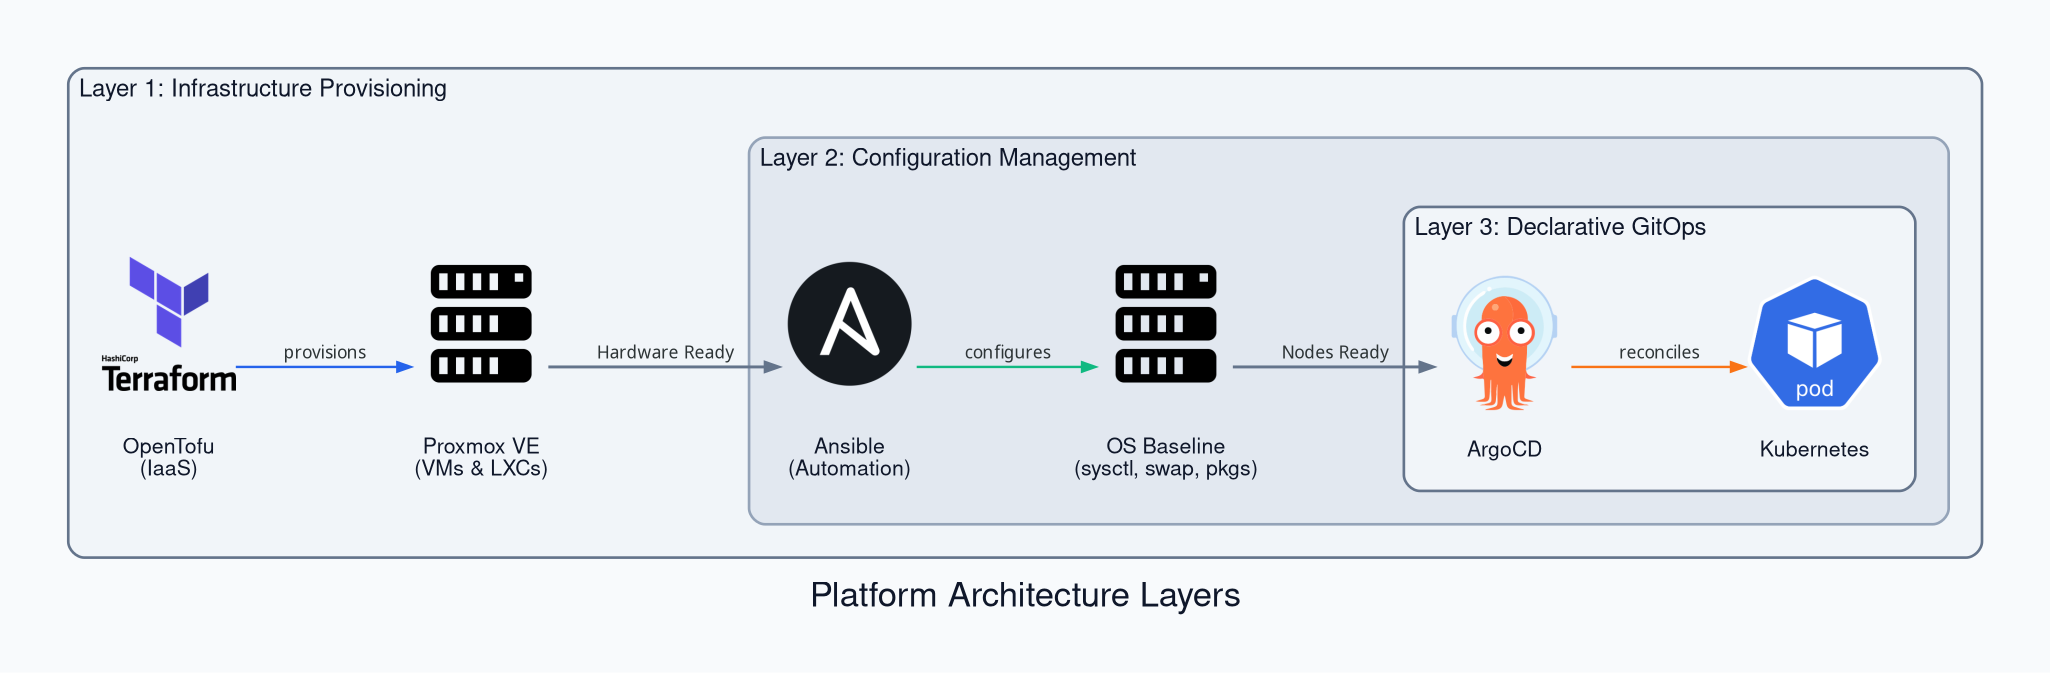
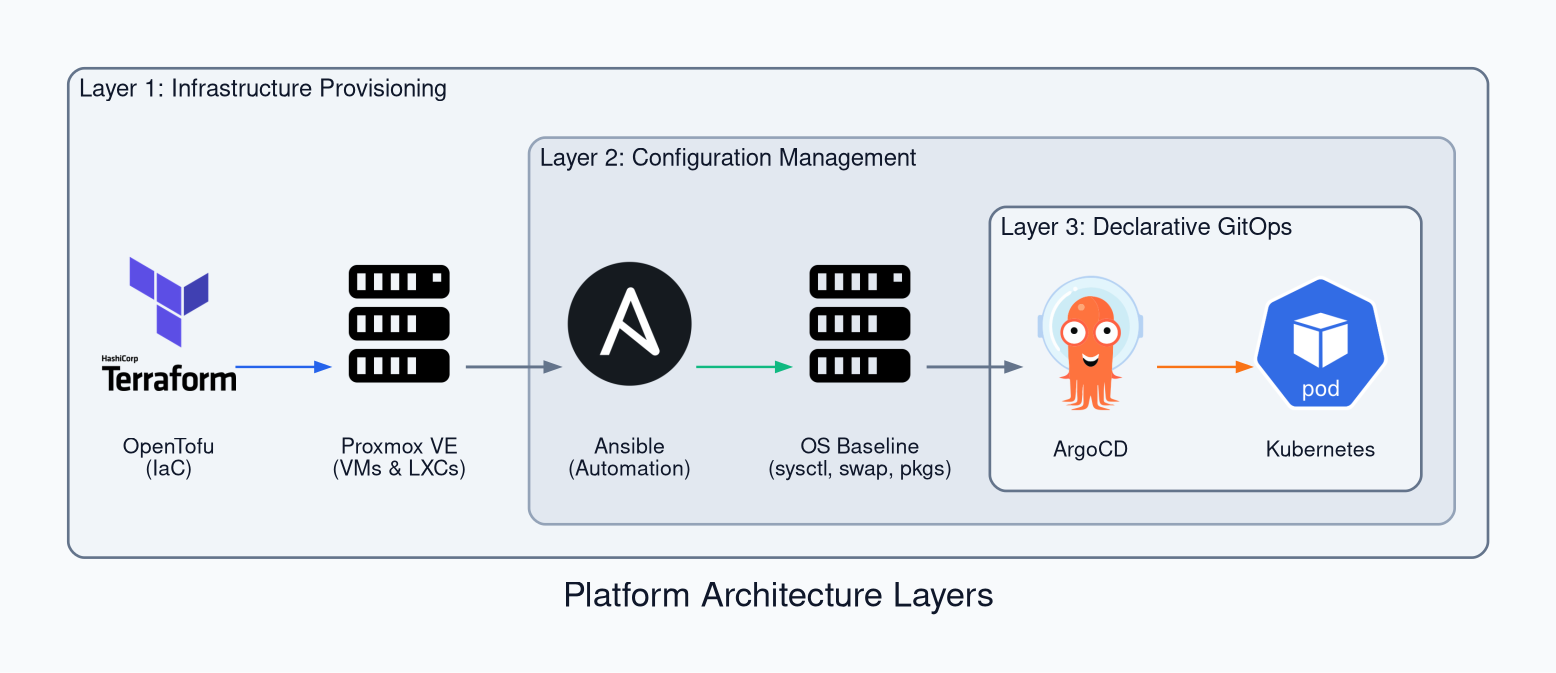
docs(platform): refine architecture rationale, journey, and diagrams (#60)

diff --git a/scripts/generate_diagram.py b/scripts/generate_diagram.py
@@ -87,22 +87,22 @@ with Diagram(
     outformat="png",
 ):
     with Cluster("Layer 1: Infrastructure Provisioning", graph_attr=cluster_outer_attr):
-        tofu = Terraform("OpenTofu\n(IaaS)")
+        tofu = Terraform("OpenTofu\n(IaC)")
         pve = Server("Proxmox VE\n(VMs & LXCs)")
-        tofu >> Edge(color="#2563eb", penwidth="1.8", label="provisions") >> pve
+        tofu >> Edge(color="#2563eb", penwidth="1.8") >> pve
 
         with Cluster("Layer 2: Configuration Management", graph_attr=cluster_inner_attr):
             ansible = Ansible("Ansible\n(Automation)")
             os_tune = Server("OS Baseline\n(sysctl, swap, pkgs)")
-            ansible >> Edge(color="#10b981", penwidth="1.8", label="configures") >> os_tune
+            ansible >> Edge(color="#10b981", penwidth="1.8") >> os_tune
 
             with Cluster("Layer 3: Declarative GitOps", graph_attr=cluster_outer_attr):
                 argo = Argocd("ArgoCD")
                 k8s = Pod("Kubernetes")
-                argo >> Edge(color="#f97316", penwidth="1.8", label="reconciles") >> k8s
+                argo >> Edge(color="#f97316", penwidth="1.8") >> k8s
 
-        pve >> Edge(color="#64748b", penwidth="2.2", style="bold", label="Hardware Ready") >> ansible
-        os_tune >> Edge(color="#64748b", penwidth="2.2", style="bold", label="Nodes Ready") >> argo
+        pve >> Edge(color="#64748b", penwidth="2.2", style="bold") >> ansible
+        os_tune >> Edge(color="#64748b", penwidth="2.2", style="bold") >> argo
 
 # ==============================================================================
 # Diagram 2: Physical Topology & Quorum
@@ -111,7 +111,7 @@ with Diagram(
 with Diagram(
     "Physical Topology",
     show=False,
-    direction="LR",
+    direction="TB",
     curvestyle="ortho",
     graph_attr=base_graph_attr,
     node_attr=common_node_attr,
@@ -127,13 +127,7 @@ with Diagram(
         with Cluster("rpi-01", graph_attr=cluster_inner_attr):
             qdevice = Server("Corosync QDevice")
             ntp = Server("Chrony NTP (UTC)")
-
-        # Corosync Quorum & Witness Links
-        pve01 - Edge(color="#2563eb", penwidth="2.5", label="Corosync") - pve02
-        qdevice >> Edge(color="#10b981", style="dashed", penwidth="2.0") >> pve01
-        qdevice >> Edge(color="#10b981", style="dashed", penwidth="2.0") >> pve02
-        ntp >> Edge(color="#f97316", style="dashed", penwidth="2.0") >> pve01
-        ntp >> Edge(color="#f97316", style="dashed", penwidth="2.0") >> pve02
+            jumpbox = Server("SSH Jumpbox")
 
 # ==============================================================================
 # Diagram 3: Kubernetes Homelab Architecture

diff --git a/docs/journey.md b/docs/journey.md
@@ -12,22 +12,12 @@ A retrospective narrative on environmental constraints, operational toil, and ev
   │     Initial manual discovery and hardware learning     │
   └──────────────────────────┬─────────────────────────────┘
                              │
-                             ▼  Friction: Repeating the creation wizard 10 times for 10 VMs
+                             ▼  Friction: Manual clicking, OS toil, and drift
   ┌────────────────────────────────────────────────────────┐
-  │                 Layer 1: OpenTofu                      │
-  │     Declarative virtual hardware and container state   │
-  └──────────────────────────┬─────────────────────────────┘
-                             │
-                             ▼  Friction: SSHing into 5+ nodes to patch & tune OS
-  ┌────────────────────────────────────────────────────────┐
-  │                 Layer 2: Ansible                       │
-  │     Idempotent OS baselines and standalone utilities   │
-  └──────────────────────────┬─────────────────────────────┘
-                             │
-                             ▼  Friction: Manual manifest delivery & drift
-  ┌────────────────────────────────────────────────────────┐
-  │                 Layer 3: ArgoCD                        │
-  │     Declarative in-cluster GitOps workload delivery    │
+  │              Three-Tier Platform Lifecycle             │
+  │  - Layer 1 (OpenTofu): Declarative infrastructure      │
+  │  - Layer 2 (Ansible):  Host OS baselines and tuning    │
+  │  - Layer 3 (ArgoCD):   GitOps workload delivery        │
   └──────────────────────────┬─────────────────────────────┘
                              │
                              ▼  Reflection: Locking in separation of concerns
@@ -36,10 +26,11 @@ A retrospective narrative on environmental constraints, operational toil, and ev
   │     Formalized architectural boundaries (ADR 001-005)  │
   └──────────────────────────┬─────────────────────────────┘
                              │
-                             ▼  Mastery: Zero-touch disaster recovery
+                             ▼  Maturity: Zero-touch recovery and shift-left safety
   ┌────────────────────────────────────────────────────────┐
-  │              Act 6: The Phoenix Rebuild                │
-  │     Zero-touch orchestration via site.yml (ADR 006)    │
+  │           Platform Resilience & Staging                │
+  │  - Phoenix Rebuild: Zero-touch recovery (ADR 006)      │
+  │  - Ephemeral Sandboxes: Shift-left staging (ADR 007)   │
   └────────────────────────────────────────────────────────┘
 ```
 
@@ -59,7 +50,7 @@ However, the graphical interface soon revealed its fundamental operational ceili
 
 ---
 
-## Act 2: The First Wall of Toil (Why OpenTofu?)
+## Act 2: The First Wall of Toil
 
 !!! quote "The Realization"
     Clicking through the VM creation wizard once was fine to learn how KVM parameters work.
@@ -80,9 +71,9 @@ tofu apply
 
 ---
 
-## Act 3: The Second Wall of Toil (Why Ansible?)
+## Act 3: The Second Wall of Toil
 
-Provisioning virtual hardware solved the creation problem, but exposed the host configuration problem.
+Provisioning virtual machines solved the creation problem, but exposed the host configuration problem.
 
 Once the virtual machines booted, they were bare operating system shells. Preparing them for Kubernetes required:
 
@@ -99,9 +90,9 @@ Through centralized inventories and idempotent playbooks (`ansible/playbooks/set
 
 ---
 
-## Act 4: The Ingress Mystery (Standalone Gateway and DNS)
+## Act 4: The Ingress Mystery
 
-With the cluster operational, accessing web services (ArgoCD, Hubble UI, and monitoring dashboards) required memorizing internal IP addresses and high NodePort numbers (`:30443`, `:31235`).
+With the cluster operational, routing traffic to internal dashboards and managing local DNS became the next operational challenge. Accessing web services (ArgoCD, Hubble UI, and monitoring dashboards) required memorizing internal IP addresses and high NodePort numbers (`:30443`, `:31235`).
 
 The typical Kubernetes solution is an in-cluster Ingress Controller coupled with MetalLB. However, the homelab presented distinct challenges:
 
@@ -119,11 +110,11 @@ Building the gateway uncovered two real-world operational challenges:
 
 ---
 
-## Act 5: Locking Down Boundaries (The ADRs)
+## Act 5: Locking Down Boundaries
 
 After eliminating the manual toil and stabilizing the network, the final step was architectural reflection: locking in the boundaries so tools would not bleed into each other over time.
 
-This resulted in formal Architectural Decision Records:
+This resulted in formal Architectural Decision Records (ADRs):
 
 * **[ADR 001](adr/001-two-node-cluster-topology.md):** Asymmetric two-node cluster topology with external Raspberry Pi tiebreaker.
 * **[ADR 002](adr/002-local-storage-with-retain-policy.md):** Local disk mapping with strict retention policy.
@@ -144,3 +135,17 @@ This prompted [ADR 006](adr/006-orchestrated-cluster-bootstrap-via-ansible-scrip
     * `utilities.yml`: Configures utility containers.
     * `site.yml`: Sequences both cluster bootstrap and utility configuration for complete bare-metal reconstruction.
 * **Golden Image Baking:** Using `virt-customize` on the cloud-init template to pre-bake `qemu-guest-agent` and truncate `/etc/machine-id`, eliminating API timeouts and duplicate DHCP leases.
+
+---
+
+## Act 7: Shifting Left
+
+With the Phoenix Rebuild automated, a final engineering challenge emerged: how to safely test new OpenTofu definitions, cloud-init changes, or Ansible plays without polluting active Kubernetes nodes.
+
+Running experimental changes against cluster nodes (`k8s-cp-01`, `k8s-app-01`) risked configuration drift, package pollution, and service downtime. Conversely, testing on local developer machines lacked hypervisor fidelity.
+
+This justified introducing [ADR 007](adr/007-ephemeral-sandbox-staging-environment.md), shifting infrastructure testing left through disposable sandbox staging environments:
+
+* **Isolated ID & IP Allocations:** Dedicated 900-series IDs (`10.0.0.9x`) for VMs and 800-series IDs (`10.0.0.8x`) for containers, guaranteeing no collisions with active cluster VMs or utility containers.
+* **Zero-Footprint Default:** Setting `default = {}` ensures that standard `tofu apply` executions consume zero CPU, RAM, or storage when sandboxes are not in use.
+* **Targeted Validation:** Operators validate provisioning and run playbooks safely using Ansible limits (`--limit sandbox`), confirming stability before applying changes to the cluster.

diff --git a/README.md b/README.md
@@ -12,13 +12,12 @@ For full guides and runbooks, visit the [documentation site](https://victoriache
 
 Built to expand beyond single-machine experiments and disposable cloud setups, evolving the foundations of [observability-hub](https://github.com/victoriacheng15/observability-hub) across distributed physical infrastructure:
 
-* **From Single-Node to Distributed Topology:** Scales the single-machine GitOps and Cilium foundations into a multi-node bare-metal environment, confronting real node failure domains and quorum management.
-* **Three-Tier Platform Lifecycle:** Strict boundary separation across infrastructure provisioning (OpenTofu), host OS baselines (Ansible), and declarative workload delivery (ArgoCD).
-* **Control Plane Isolation:** Centralized control plane with strict `NoSchedule` taints to preserve API stability.
-* **Kernel Datapath & In-Cluster Routing:** Cilium eBPF in isolated VXLAN overlay mode, avoiding host routing table modifications or physical LAN disruption.
-* **Decoupled Ingress Gateway:** Standalone Nginx reverse proxy and Pi-hole DNS sinkhole operating outside Kubernetes to ensure uninterrupted service routing.
-* **Zero-Drift GitOps:** ArgoCD as the authoritative reconciler for all cluster services, observability daemons, and security tools.
-* **Resilience Under Constraints:** Asymmetric physical hardware (Mini PC + Laptop) with external Raspberry Pi Corosync quorum (`corosync-qnetd`) to prevent split-brain states.
+* **Distributed Topology:** Scales across multi-node hardware using an external Raspberry Pi tiebreaker to manage quorum and node failure domains.
+* **Three-Tier Platform Lifecycle:** Enforces strict boundaries across infrastructure (OpenTofu), host OS baselines (Ansible), and workloads (ArgoCD).
+* **Control Plane Isolation:** Isolates the control plane with `NoSchedule` taints to protect API stability.
+* **Host Network Management:** Manages machine IP addressing via DHCP and static reservations across physical hosts and VMs.
+* **Kernel Datapath & Routing:** Routes pod traffic via Cilium eBPF and VXLAN overlay without disrupting the home LAN.
+* **Zero-Drift GitOps:** Reconciles all cluster services and platform tools automatically using ArgoCD.
 
 ---
 
@@ -36,7 +35,7 @@ Built to expand beyond single-machine experiments and disposable cloud setups, e
 | :---: | :--- | :--- | :--- | :--- | :--- |
 | <img src="docs/assets/logos/proxmox.svg" alt="Proxmox" width="32"> | Mini PC | `pve-01` | x86_64 | 32 GB | Proxmox host (`k8s-cp-01`, `k8s-telemetry-01`) |
 | <img src="docs/assets/logos/proxmox.svg" alt="Proxmox" width="32"> | Laptop | `pve-02` | x86_64 | 8 GB | Proxmox host (`k8s-app-01` worker) |
-| <img src="docs/assets/logos/raspberrypi.svg" alt="Raspberry Pi" width="32"> | Raspberry Pi 3B | `rpi-01` | ARM64 | 1 GB | Corosync QDevice quorum tiebreaker (`corosync-qnetd`) |
+| <img src="docs/assets/logos/raspberrypi.svg" alt="Raspberry Pi" width="32"> | Raspberry Pi 3B | `rpi-01` | ARM64 | 1 GB | Corosync QDevice, Chrony NTP, and SSH Jumpbox |
 
 ---
 

diff --git a/docs/README.md b/docs/README.md
@@ -10,13 +10,12 @@ For the narrative story behind the architectural choices and operational lessons
 
 Built to expand beyond single-machine experiments and disposable cloud setups, evolving the foundations of [observability-hub](https://github.com/victoriacheng15/observability-hub) across distributed physical infrastructure:
 
-* **From Single-Node to Distributed Topology:** Scales the single-machine GitOps and Cilium foundations into a multi-node bare-metal environment, confronting real node failure domains and quorum management.
-* **Three-Tier Platform Lifecycle:** Strict boundary separation across infrastructure provisioning (OpenTofu), host OS baselines (Ansible), and declarative workload delivery (ArgoCD).
-* **Control Plane Isolation:** Centralized control plane with strict `NoSchedule` taints to preserve API stability.
-* **Kernel Datapath & In-Cluster Routing:** Cilium eBPF in isolated VXLAN overlay mode, avoiding host routing table modifications or physical LAN disruption.
-* **Decoupled Ingress Gateway:** Standalone Nginx reverse proxy and Pi-hole DNS sinkhole operating outside Kubernetes to ensure uninterrupted service routing.
-* **Zero-Drift GitOps:** ArgoCD as the authoritative reconciler for all cluster services, observability daemons, and security tools.
-* **Resilience Under Constraints:** Asymmetric physical hardware (Mini PC + Laptop) with external Raspberry Pi Corosync quorum (`corosync-qnetd`) to prevent split-brain states.
+* **Distributed Topology:** Scales across multi-node hardware using an external Raspberry Pi tiebreaker to manage quorum and node failure domains.
+* **Three-Tier Platform Lifecycle:** Enforces strict boundaries across infrastructure (OpenTofu), host OS baselines (Ansible), and workloads (ArgoCD).
+* **Control Plane Isolation:** Isolates the control plane with `NoSchedule` taints to protect API stability.
+* **Host Network Management:** Manages machine IP addressing via DHCP and static reservations across physical hosts and VMs.
+* **Kernel Datapath & Routing:** Routes pod traffic via Cilium eBPF and VXLAN overlay without disrupting the home LAN.
+* **Zero-Drift GitOps:** Reconciles all cluster services and platform tools automatically using ArgoCD.
 
 ---
 
@@ -34,7 +33,7 @@ Built to expand beyond single-machine experiments and disposable cloud setups, e
 | :---: | :--- | :--- | :--- | :--- | :--- |
 | <img src="./assets/logos/proxmox.svg" alt="Proxmox" width="32"> | Mini PC | `pve-01` | x86_64 | 32 GB | Proxmox host (`k8s-cp-01`, `k8s-telemetry-01`) |
 | <img src="./assets/logos/proxmox.svg" alt="Proxmox" width="32"> | Laptop | `pve-02` | x86_64 | 8 GB | Proxmox host (`k8s-app-01` worker) |
-| <img src="./assets/logos/raspberrypi.svg" alt="Raspberry Pi" width="32"> | Raspberry Pi 3B | `rpi-01` | ARM64 | 1 GB | Corosync QDevice quorum tiebreaker (`corosync-qnetd`) |
+| <img src="./assets/logos/raspberrypi.svg" alt="Raspberry Pi" width="32"> | Raspberry Pi 3B | `rpi-01` | ARM64 | 1 GB | Corosync QDevice, Chrony NTP, and SSH Jumpbox |
 
 ---
 

diff --git a/docs/engineering-log.md b/docs/engineering-log.md
@@ -12,7 +12,7 @@ Executed automated infrastructure and cluster provisioning drills across OpenTof
 
 ### Target Scope
 
-* **Virtual Machines:** `k8s-cp-01` (VM 100), `k8s-telemetry-01` (VM 101), `k8s-app-01` (VM 200)
+* **Virtual Machines:** `k8s-cp-01`, `k8s-telemetry-01`, `k8s-app-01`
 * **Containers (LXC):** `ansible`, `tailscale`, `nginx`, `pihole`
 * **Provisioning & Automation:** `infra/`, `ansible/`, `bootstrap/`
 
@@ -195,7 +195,7 @@ Bootstrapped the Layer 3 Kubernetes platform across three virtual machines (`k8s
 
 ### Target Scope
 
-* **Virtual Machines:** `k8s-cp-01` (VM 100), `k8s-telemetry-01` (VM 101), `k8s-app-01` (VM 200)
+* **Virtual Machines:** `k8s-cp-01`, `k8s-telemetry-01`, `k8s-app-01`
 * **Automation & Scripts:** `bootstrap/00-preflight.sh`, `bootstrap/01-k3s-server.sh`, `bootstrap/02-k3s-agent.sh`, `bootstrap/03-cni-cilium.sh`, `Makefile`
 * **Documentation:** `docs/provisioning.md`, `docs/adr/003-cilium-ebpf-in-vxlan-overlay-mode.md`, `bootstrap/README.md`
 
@@ -258,7 +258,7 @@ Established strict separation of concerns across the platform hierarchy (OpenTof
 
 ### Target Scope
 
-* **Virtual Machines:** `k8s-cp-01` (VM 100), `k8s-telemetry-01` (VM 101), `k8s-app-01` (VM 200)
+* **Virtual Machines:** `k8s-cp-01`, `k8s-telemetry-01`, `k8s-app-01`
 * **Containers (LXC):** `pihole`, `tailscale`, `nginx`, `ansible`
 * **Automation & Docs:** `infra/`, `ansible/`, `scripts/generate_diagram.py`, `docs/assets/`
 
@@ -295,7 +295,7 @@ Initialized the physical dual-node Proxmox VE cluster (`k8s-homelab`) with an ex
 ### Target Scope
 
 * **Physical Hosts:** `pve-01` (Mini PC), `pve-02` (Laptop), `rpi-01` (Raspberry Pi 3B)
-* **Virtual Machines:** `k8s-cp-01` (VM 100), `k8s-telemetry-01` (VM 101), `k8s-app-01` (VM 200), Ubuntu 24.04 Template (VM 9000)
+* **Virtual Machines:** `k8s-cp-01`, `k8s-telemetry-01`, `k8s-app-01`, Ubuntu 24.04 Template
 * **Containers (LXC):** `pihole` on `pve-02`, `tailscale` on `pve-01`, `nginx` on `pve-01`, `ansible` on `pve-01`
 
 ### Key Changes
@@ -304,7 +304,7 @@ Initialized the physical dual-node Proxmox VE cluster (`k8s-homelab`) with an ex
 * Preserved existing container configs across the `pmxcfs` join and migrated `tailscale` from `pve-02` to `pve-01`.
 * Installed `corosync-qnetd` on `rpi-01` and attached it as the external cluster QDevice via `pvecm qdevice setup`.
 * Configured Chrony NTP on `rpi-01` as the local network time server and synchronized `pve-01` and `pve-02`.
-* Migrated Ubuntu 24.04 Cloud-Init template (VM 9000) to `pve-01` local storage.
+* Migrated Ubuntu 24.04 Cloud-Init template to `pve-01` local storage.
 * Downloaded Debian 13 standard amd64 LXC template on `pve-01`.
 * Configured OpenTofu manifests (`infra/`) to provision Kubernetes VMs and manage LXC utility containers.
 

diff --git a/docs/provisioning.md b/docs/provisioning.md
@@ -153,13 +153,14 @@ Deploy virtual machines and utility containers:
 
 ### Standalone Utility Containers
 
-Alongside the Kubernetes virtual machines, OpenTofu provisions unprivileged Debian LXC utility containers:
+The absolute minimum required to run this homelab is the 3 virtual machines and Ansible. The rest of the utility containers are not needed to operate the platform:
 
 | Container | ID | Host | IP Mode | Operational Purpose |
 | :--- | :--- | :--- | :--- | :--- |
 | **`ansible`** | `CT 300` | `pve-01` | DHCP | Dedicated automation controller node running playbooks across the fleet |
-| **`pihole`** | `CT 301` | `pve-01` | Static / DHCP | Local DNS sinkhole and wildcard domain resolver (`*.homelab.local`) |
-| **`nginx`** | `CT 302` | `pve-01` | DHCP | Local reverse proxy and SSL gateway for cluster dashboards |
+| **`pihole`** | `CT 301` | `pve-01` | DHCP | DNS sinkhole and wildcard domain resolver (`*.homelab.local`) |
+| **`nginx`** | `CT 302` | `pve-01` | DHCP | Reverse proxy and SSL gateway for cluster dashboards |
+| **`storage`** | `CT 303` | `pve-02` | DHCP | Samba (SMB) network storage and notes backup target |
 
 ---
 
